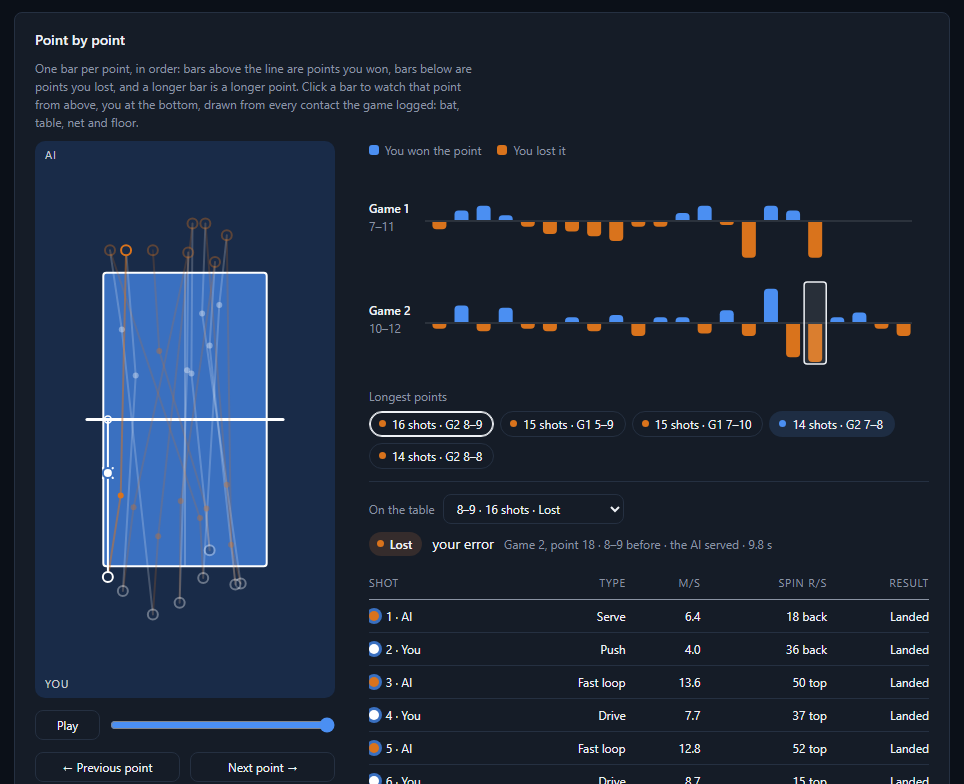
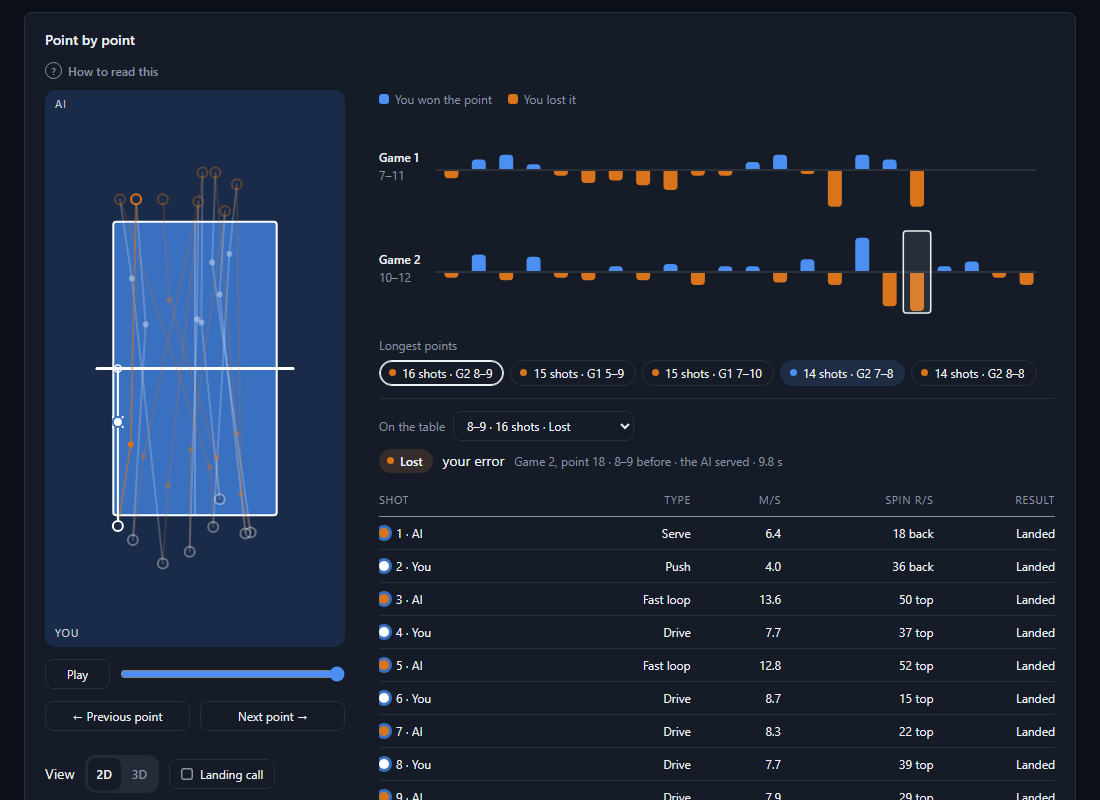
README: pictures of the dashboard
Five pictures of the demo (made-up matches): the top of the page, the
point-by-point replay from above and in 3D, the shot explorer and the
training plan. The project site's replay picture is retaken to match.

diff --git a/pages/index.html b/pages/index.html
@@ -69,7 +69,7 @@
             <a href="https://11hero.com">11hero</a>-style match metrics.</span></li>
         </ul>
         <figure class="shot">
-          <img src="img/replay.png" width="964" height="784" loading="lazy" alt="The point-by-point view: a table seen from above with the paths of a 16-shot rally, bars for every point of two games, and a shot list with type, speed and spin.">
+          <img src="img/replay.png" width="1100" height="800" loading="lazy" alt="The point-by-point view: a table seen from above with the paths of a 16-shot rally, bars for every point of two games, and a shot list with type, speed and spin.">
           <figcaption>Point by point: pick any bar to watch that rally from above.</figcaption>
         </figure>
       </div>

diff --git a/README.md b/README.md
@@ -1,6 +1,12 @@
 # elevendash
 
-Match analysis for **Eleven Table Tennis** on Meta Quest, from the game's own log files. It copies the logs off your
+Match analysis for **Eleven Table Tennis** on Meta Quest, from the game's own log files.
+
+[![The top of the dashboard: matches won and lost at your main AI level and over every AI match, then the report on the last session.](pages/img/overview.png)](https://glki6.github.io/elevendash/demo/)
+
+*The pictures on this page are of the [demo](https://glki6.github.io/elevendash/demo/), built from made-up matches.*
+
+It copies the logs off your
 headset over Wi-Fi, works out every match, game, point and shot, and writes a dashboard you can open in any browser:
 win rates by session and AI level, a session report, a point-by-point replay of every match drawn from the ball
 contacts (from above, or in 3D with a slow-motion replay of the shot that decided the point and its spin), serve and return breakdowns, a shot explorer that finds any of your shots by the ball that came at you and lists the kinds of ball you miss most and shows how your misses differ from the shots you land, rolling win rates with the range chance allows and how you play from the first match of a session to the last, your numbers over any matches you pick set against your other matches, a
@@ -14,6 +20,15 @@ matches are kept in the browser you wrote them in, never in the file, so they st
 > elevendash is an independent project, not affiliated with or endorsed by For Fun Labs, Meta or 11hero. Its match
 > metrics follow [11hero](https://11hero.com)'s definitions and were checked against it on a real match
 > (see `research/CALIBRATION.md`).
+
+## What it looks like
+
+| | |
+|---|---|
+| ![A table seen from above with the paths of a 16-shot rally, bars for every point of two games, and a shot list with type, speed and spin.](pages/img/replay.png) | ![The same point on a table drawn in 3D, with a ball in the corner showing the spin of the last shot.](pages/img/replay-3d.png) |
+| **Point by point.** Every point of a match as a bar; click one to play it back from the ball contacts, with each shot's type, speed and spin. | **3D replay.** The same point in 3D. "Deciding shot" replays the last shot in slow motion with the camera on the ball and its spin shown. |
+| ![A ranked list of the kinds of ball missed most, each with a bar for the miss rate against the usual rate.](pages/img/shots.png) | ![Training plan items, each with a drill, what it is worth in points a match, and a chart of the number against its target.](pages/img/plan.png) |
+| **Shot explorer.** The kinds of ball you miss most, and a filter that finds any shot by the ball that came at you. | **Training plan.** What to practise next, ranked by points a match, each item with a drill, a target and its trend. |
 
 ## Try it without a Quest
 
